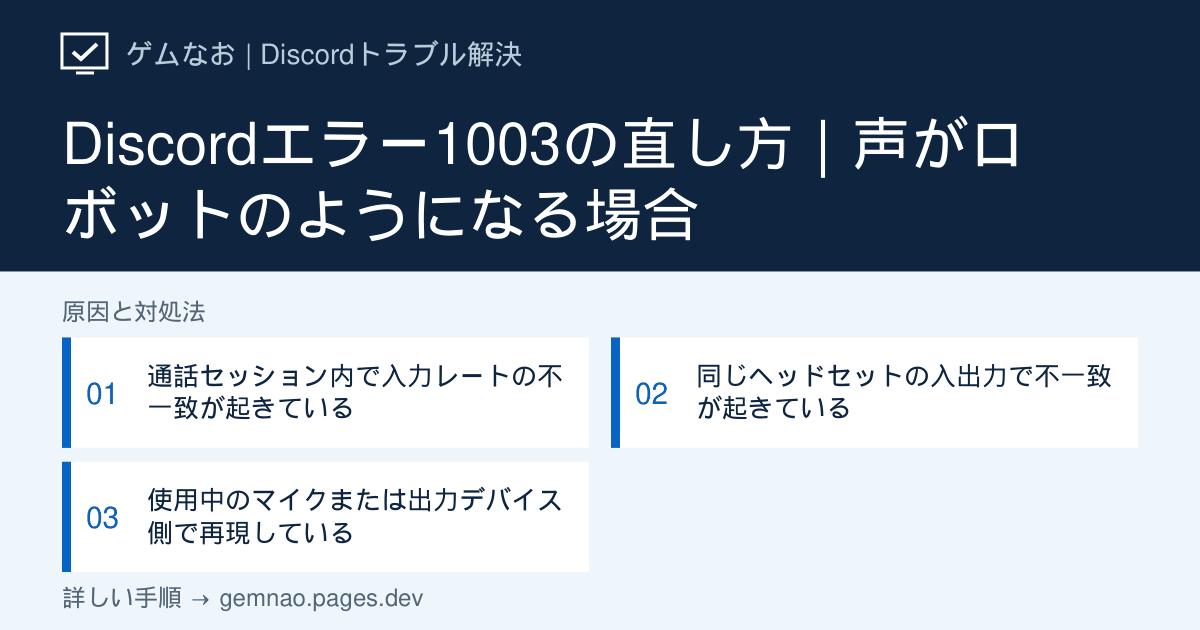
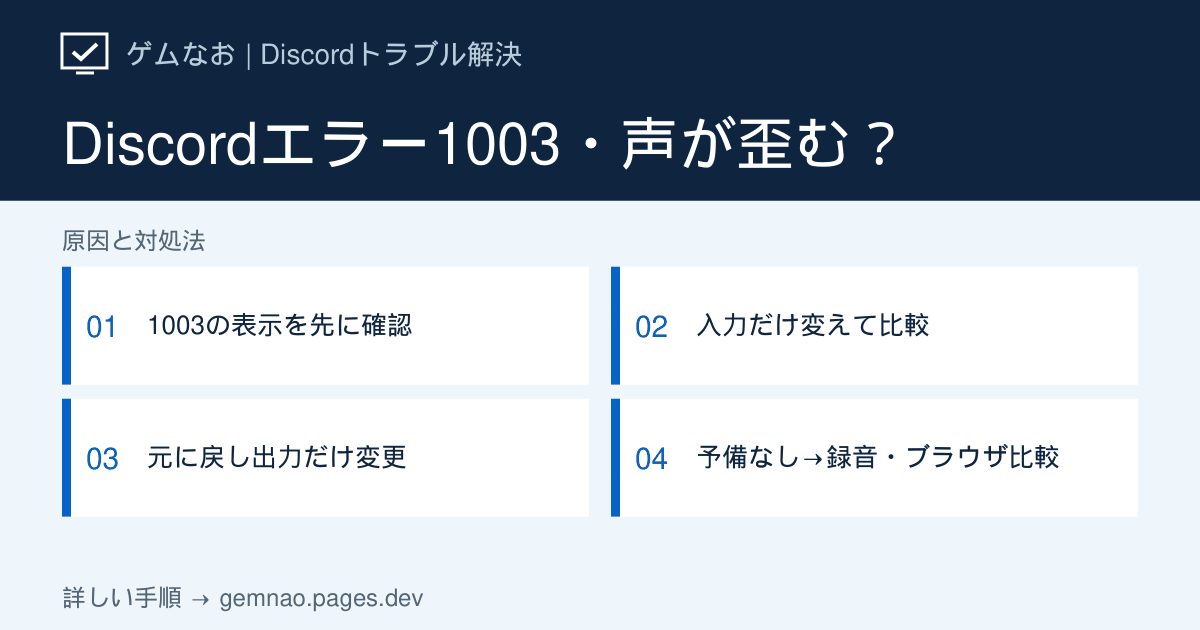
Improve Discord error 1003 diagnosis and isolated audio comparisons

diff --git a/lib/discord-p0-articles.ts b/lib/discord-p0-articles.ts
@@ -517,80 +517,84 @@ export const discordP0Articles: DiscordArticle[] = [
     status: 'verified',
   },
   {
-    slug: 'error-1003',
-    category: 'audio',
-    title: 'Discordエラー1003の直し方｜声がロボットのようになる場合',
+    slug: 'error-1003', category: 'audio',
+    title: 'Discordエラー1003・ロボット声の直し方｜入力と出力を分けて比較',
     shortTitle: 'エラー1003・ロボット声',
-    seoTitle: 'Discordエラー1003の直し方｜ロボット声・音声入力エラー',
-    metaDescription:
-      'Discordエラー1003で声がロボットのように歪む、遅くなる場合の対処法。入出力デバイスの分離、マイク変更、通話への再参加を説明します。',
-    symptom:
-      'Discordの通話でエラー1003が表示され、自分の声がロボットのように歪む、遅くなる、または音声がおかしくなる場合の手順です。',
-    target: 'Windows版 Discordデスクトップアプリの音声通話',
-    conclusion:
-      'エラー1003は、Discordがマイク入力レートの重大な不一致を検出したときの公式エラーです。入力と出力に別々のデバイスを使い、別マイクまたは別出力へ切り替えて確認します。',
-    quickFixes: [
-      'ボイスチャンネルから退出して再参加する',
-      '入力と出力に別々のデバイスを選ぶ',
-      '別のマイクまたは別の出力デバイスへ切り替える',
+    seoTitle: 'Discordエラー1003の直し方｜ロボット声・予備マイクがない場合',
+    metaDescription: 'Discordエラー1003は入力だけ・出力だけを変えて比較。元の組み合わせへ戻す順番、予備機器がない場合の録音・ブラウザ比較、1003表示のない音声不調との区別を解説します。',
+    symptom: 'エラー1003とともに声が機械のように歪む、遅くなる場合が対象です。声が変に聞こえるだけで1003と決めつけず、エラーの表示有無を先に確認します。',
+    target: 'Windows版Discordデスクトップアプリの音声通話',
+    conclusion: '1003はDiscordがマイク入力レートの大きな不一致を検出した時のエラーです。通話へ入り直しても続くなら、元の入出力を控え、入力だけ変更→元へ戻す→出力だけ変更の順で比較します。予備機器がなければ内蔵機器の有無を調べ、録音・ブラウザ版との比較結果を残してください。',
+    quickFixes: ['1003の表示と、誰に声が歪んで聞こえるかを記録する', '入力だけ・出力だけを変え、同じ相手・同じ文章で比較する', 'エラーの有無と声の歪みを別々に記録し、改善した組み合わせを再確認する'],
+    showStatusCheck: false,
+    diagnosisTitle: '1003の有無と、入出力の組み合わせで選ぶ比較表',
+    diagnosisIntro: 'A＝元のマイク、B＝元の出力、C＝別マイク、D＝別出力として比較します。AとBが同じヘッドセットでも構いません。各比較後に通話へ入り直し、エラー表示と相手の聞こえ方を確認します。',
+    diagnosis: [
+      { symptom: '1003は未確認／声が変だと言われただけ', check: 'エラー画面と影響する相手を確認。音声不調全般と区別', causeIndex: 1 },
+      { symptom: '基準：入力A＋出力Bで1003が出る', check: '同じ組み合わせのまま再参加し、再現するか確認', causeIndex: 2 },
+      { symptom: '比較1：入力C＋出力B（入力だけ変更）', check: '改善すれば元の入力・入出力の組み合わせが確認先', causeIndex: 2 },
+      { symptom: '比較2：入力A＋出力D（出力だけ変更）', check: 'いったんA＋Bへ戻してから試す。出力変更の効果を分ける', causeIndex: 2 },
+      { symptom: '別のマイク・出力機器が手元にない', check: '内蔵機器の有無→録音・ブラウザ版の比較へ', causeIndex: 3 },
+      { symptom: '比較後も1003が続く／表示は消えたが声は変', check: '表示と音声を別々に記録し、結果に合う確認先へ', causeIndex: 4 },
     ],
     causes: [
       {
-        title: '通話セッション内で入力レートの不一致が起きている',
-        description:
-          '最初にボイスチャンネルへ入り直し、現在の音声接続を作り直します。',
+        title: '1003の表示があるか、誰が歪んだ声を聞くかを確認する',
+        description: '公式は1003をマイク入力レートの不一致として説明しています。ただし、ロボットのような声になる原因がすべて1003とは限りません。',
         actions: [
-          '現在のボイスチャンネルまたは通話から退出する',
-          '数秒待ってから同じ通話へ再参加する',
-          '相手に声の歪みが消えたか確認してもらう',
+          'エラー画面の数字と文言、発生時刻を控える。相手が1003を見ているのか、自分の画面に出ているのかも分ける。',
+          '自分の声を相手が聞くと変なのか、相手の声を自分が聞くと変なのかを確認する。可能なら別の参加者にも聞こえ方を確認してもらう。',
+          '自分側で1003が確認できる場合はSTEP 2へ。相手側の入力に関するエラーなら、この比較手順を相手に案内する。',
+          '1003表示がなく途切れ・語尾切れが中心なら「音声・マイクが途切れる」へ。Bluetoothで通話開始時に音がこもる場合はBluetooth音声の記事で比較する。',
         ],
       },
       {
-        title: '同じヘッドセットの入出力で不一致が起きている',
-        description:
-          'Discord公式は、入力と出力を別々のデバイスに分ける方法を案内しています。',
+        title: '入力だけ・出力だけを変え、改善する組み合わせを調べる',
+        description: '公式は入出力を別機器にすること、別マイク・別出力への変更、通話への再参加を案内しています。ここでは何が変わったか追える順番に整理します。',
         actions: [
-          'Discordのユーザー設定から「音声・ビデオ」を開く',
-          '入力デバイスにUSBマイクなどを選ぶ',
-          '出力デバイスに別のヘッドフォンまたはスピーカーを選ぶ',
-          'マイクテストまたは通話で音声を確認する',
+          'Discord左下の歯車→「音声・ビデオ」の音声項目で入力と出力の機器名を控える。比較時はDefault任せにせず、AとBを機器名で指定する。',
+          'まずA＋Bのまま通話から退出・再参加し、同じ文章を話す。これだけで1003と歪みが解消するなら、機器変更をせず再発の有無を確認する。',
+          '続く場合は入力だけCへ変更し、出力Bは固定する。例はノートPCの内蔵マイク＋元のヘッドセット。再参加後、1003の有無と声の歪みを記録する。',
+          '次は入力をAに戻し、出力もBであることを確認して基準へ戻す。その後、出力だけDへ変更して同じ確認を行う。C＋Dへ同時変更すると、どちらの変更が効いたか分からなくなる。',
+          'C＋Bだけ改善するなら元の入力や組み合わせ、A＋Dだけ改善するなら出力を含む組み合わせを重点的に調べる。どちらも改善する場合も、元のヘッドセットが故障と断定しない。',
+          '改善した組み合わせで通話へ再参加し直し、同じ相手に再確認する。1003が消えても歪みが残るなら、解決扱いにせずSTEP 4へ進む。',
+        ],
+        note: '出力切り替え前は音量を下げてください。スピーカーで比較する場合はマイクへの回り込みに注意し、エコーが出たら止めます。比較例は実測結果ではありません。',
+      },
+      {
+        title: '予備機器がない場合は、内蔵機器・録音・ブラウザで比較する',
+        description: '新しい機器を買う前に、今のPCで確認できる範囲を調べます。ただし録音やブラウザ比較は、別機器で1003が解消するかの検証そのものではありません。',
+        actions: [
+          'Windowsの「設定」→「システム」→「サウンド」で、内蔵マイク・モニター音声・内蔵スピーカーなど実際に使える機器があるか確認する。候補があればSTEP 2のCまたはDとして使う。',
+          '代替機器がなければその比較を未実施と記録する。Discordを通知領域から完全終了して起動し直し、元の機器名を選んで通話を再確認する。',
+          'Windowsのサウンド レコーダー（Windows 10はボイス レコーダー）で、Discordと同じマイクを使って短く録音する。録音でも歪むなら入力機器・接続・Windows側も候補。録音が正常ならDiscordや通話時の条件を優先して調べる。',
+          '録音アプリを終了し、Discordアプリも閉じてから同じPCの https://discord.com/app で同じ通話を試す。サイトのマイク許可と入出力機器をそろえる。',
+          'ブラウザだけ正常ならアプリ側の設定・動作条件の確認を優先。両方歪む場合も故障とは断定せず、共通する機器・接続や通話条件を記録する。',
         ],
       },
       {
-        title: '使用中のマイクまたは出力デバイス側で再現している',
-        description:
-          '利用できる別デバイスへ切り替え、特定のヘッドセットだけで起きるかを確認します。',
+        title: '比較結果に合わせて、設定確認かサポート相談へ進む',
+        description: '入力レートという名称だけを根拠に、Windowsのサンプルレートを一律の値へ変更しないでください。まず公式が案内する入出力比較の結果を整理します。',
         actions: [
-          '入力デバイスを別のマイクへ切り替える',
-          '直らなければ出力デバイスも別の機器へ切り替える',
-          '変更後にボイスチャンネルへ入り直す',
-          'どの組み合わせで1003が消えるか記録する',
+          '別機器の組み合わせで改善した場合は、その構成を一時的に使い、元の機器の接続・メーカー提供ドライバーや既知の問題を確認する。',
+          'ブラウザでは正常でアプリだけ失敗するなら、Discordの更新と完全再起動を確認する。音声設定のリセットを試す場合は、機器選択・入力モードなどを控えてから音声・ビデオのデバッグ欄で実行し、同じ条件で再比較する。',
+          '1003が消えたが声の途切れや歪みが残る場合は、その症状を別に記録する。相手1人だけに起きるのか全員に起きるのかも確認し、音声途切れの記事へ進む。',
+          '改善しなければ「1003が出る端末／WindowsとDiscordの版／入力・出力機器名／A＋B、C＋B、A＋Dの結果／録音・ブラウザの結果」を添えて公式サポートへ相談する。未実施は未確認と書く。',
         ],
       },
     ],
-    ifNotFixed:
-      '別の入出力デバイスの組み合わせでも1003が続く場合は、Discordを完全再起動し、音声・ビデオ設定のリセットを試します。エラーが出るデバイス名と組み合わせ、発生時刻を添えて公式サポートへ連絡してください。',
+    ifNotFixed: '記録例：「A＋B＝1003あり・歪みあり／C＋B＝1003なし・歪みなし／A＋D＝未確認」。これは記入例です。機器名を実際の名前に置き換え、確認時刻と再参加後の結果を添えると、何を変更したか伝わります。画像のユーザー名やサーバー名は必要に応じて隠してください。',
     faqs: [
-      {
-        question: 'エラー1003は回線が遅いことが原因ですか？',
-        answer:
-          'Discord公式では、マイク入力レートの重大な不一致により音声が歪むエラーと説明されています。まず入出力デバイスを分ける切り分けを優先してください。',
-      },
-      {
-        question: 'ゲームヘッドセットで起きやすいですか？',
-        answer:
-          '公式案内では、同じデバイスが入力と出力を兼ねるゲームヘッドセットなどでよく起きるとされています。別マイクと別ヘッドフォンの組み合わせを試してください。',
-      },
-      {
-        question: 'Windowsのサンプルレートを変更する必要がありますか？',
-        answer:
-          'Discord公式の1003向け手順は、入出力デバイスの分離、別マイク・別出力への変更、通話への再参加です。まずは公式手順を優先してください。',
-      },
+      { question: '声がロボットのようなら必ず1003ですか？', answer: 'いいえ。1003の表示を確認できない場合は音声不調全般として切り分けます。途切れ、Bluetoothの音質変化、特定の相手だけの問題を同じ原因と決めつけないでください。' },
+      { question: 'マイクとヘッドホンを両方同時に変えてよい？', answer: '回避できる可能性はありますが、どちらが影響したか分からなくなります。原因を絞る時は入力だけ変更し、元の組み合わせへ戻してから出力だけ変更します。' },
+      { question: '予備マイクを買う必要がありますか？', answer: '比較のためだけに買う必要はありません。内蔵機器があれば使い、なければ再参加・完全再起動・同じマイクの録音・ブラウザ比較の結果を残して相談できます。' },
+      { question: 'Windowsのサンプルレートを48kHzへ統一すべき？', answer: 'すべての環境へ一律に指定する手順ではありません。Discord公式の1003向け案内は入出力の分離、別機器への変更、通話への再参加です。設定値の変更は機器メーカーの案内など根拠を確認して行います。' },
     ],
-    sources: [errorCodeGuide, voiceVideoGuide],
-    related: ['audio-input-not-found', 'mic-not-working', 'error-1002'],
-    checkedAt: '2026-09-17',
-    status: 'verified',
+    sources: [errorCodeGuide, voiceVideoGuide, { label: 'Microsoft公式：マイクの設定とテスト', url: 'https://support.microsoft.com/ja-jp/windows/hardware/drivers/how-to-set-up-and-test-microphones-in-windows' }, { label: 'Discord公式サポート：問い合わせ', url: 'https://support.discord.com/hc/en-us/requests/new' }],
+    related: ['voice-cutting-out', 'bluetooth-audio-problem', 'audio-input-not-found'],
+    checkedAt: '2026-09-28', status: 'verified',
+    ogTitle: 'Discordエラー1003・声が歪む？',
+    ogSteps: ['1003の表示を先に確認', '入力だけ変えて比較', '元に戻し出力だけ変更', '予備なし→録音・ブラウザ比較'],
   },
   {
     slug: 'system-helper', category: 'game',

diff --git a/lib/og-image-manifest.ts b/lib/og-image-manifest.ts
@@ -12,7 +12,7 @@ export const ogImageManifest: Record<string, string> = {
   "/discord/echo-double-voice": "bf3f502a",
   "/discord/error-1001": "7cb71244",
   "/discord/error-1002": "ead6d712",
-  "/discord/error-1003": "aa3963fa",
+  "/discord/error-1003": "6f4b64b2",
   "/discord/game-not-detected": "677b005b",
   "/discord/game-volume-lowers": "2553f87b",
   "/discord/installation-failed": "934a70cc",
